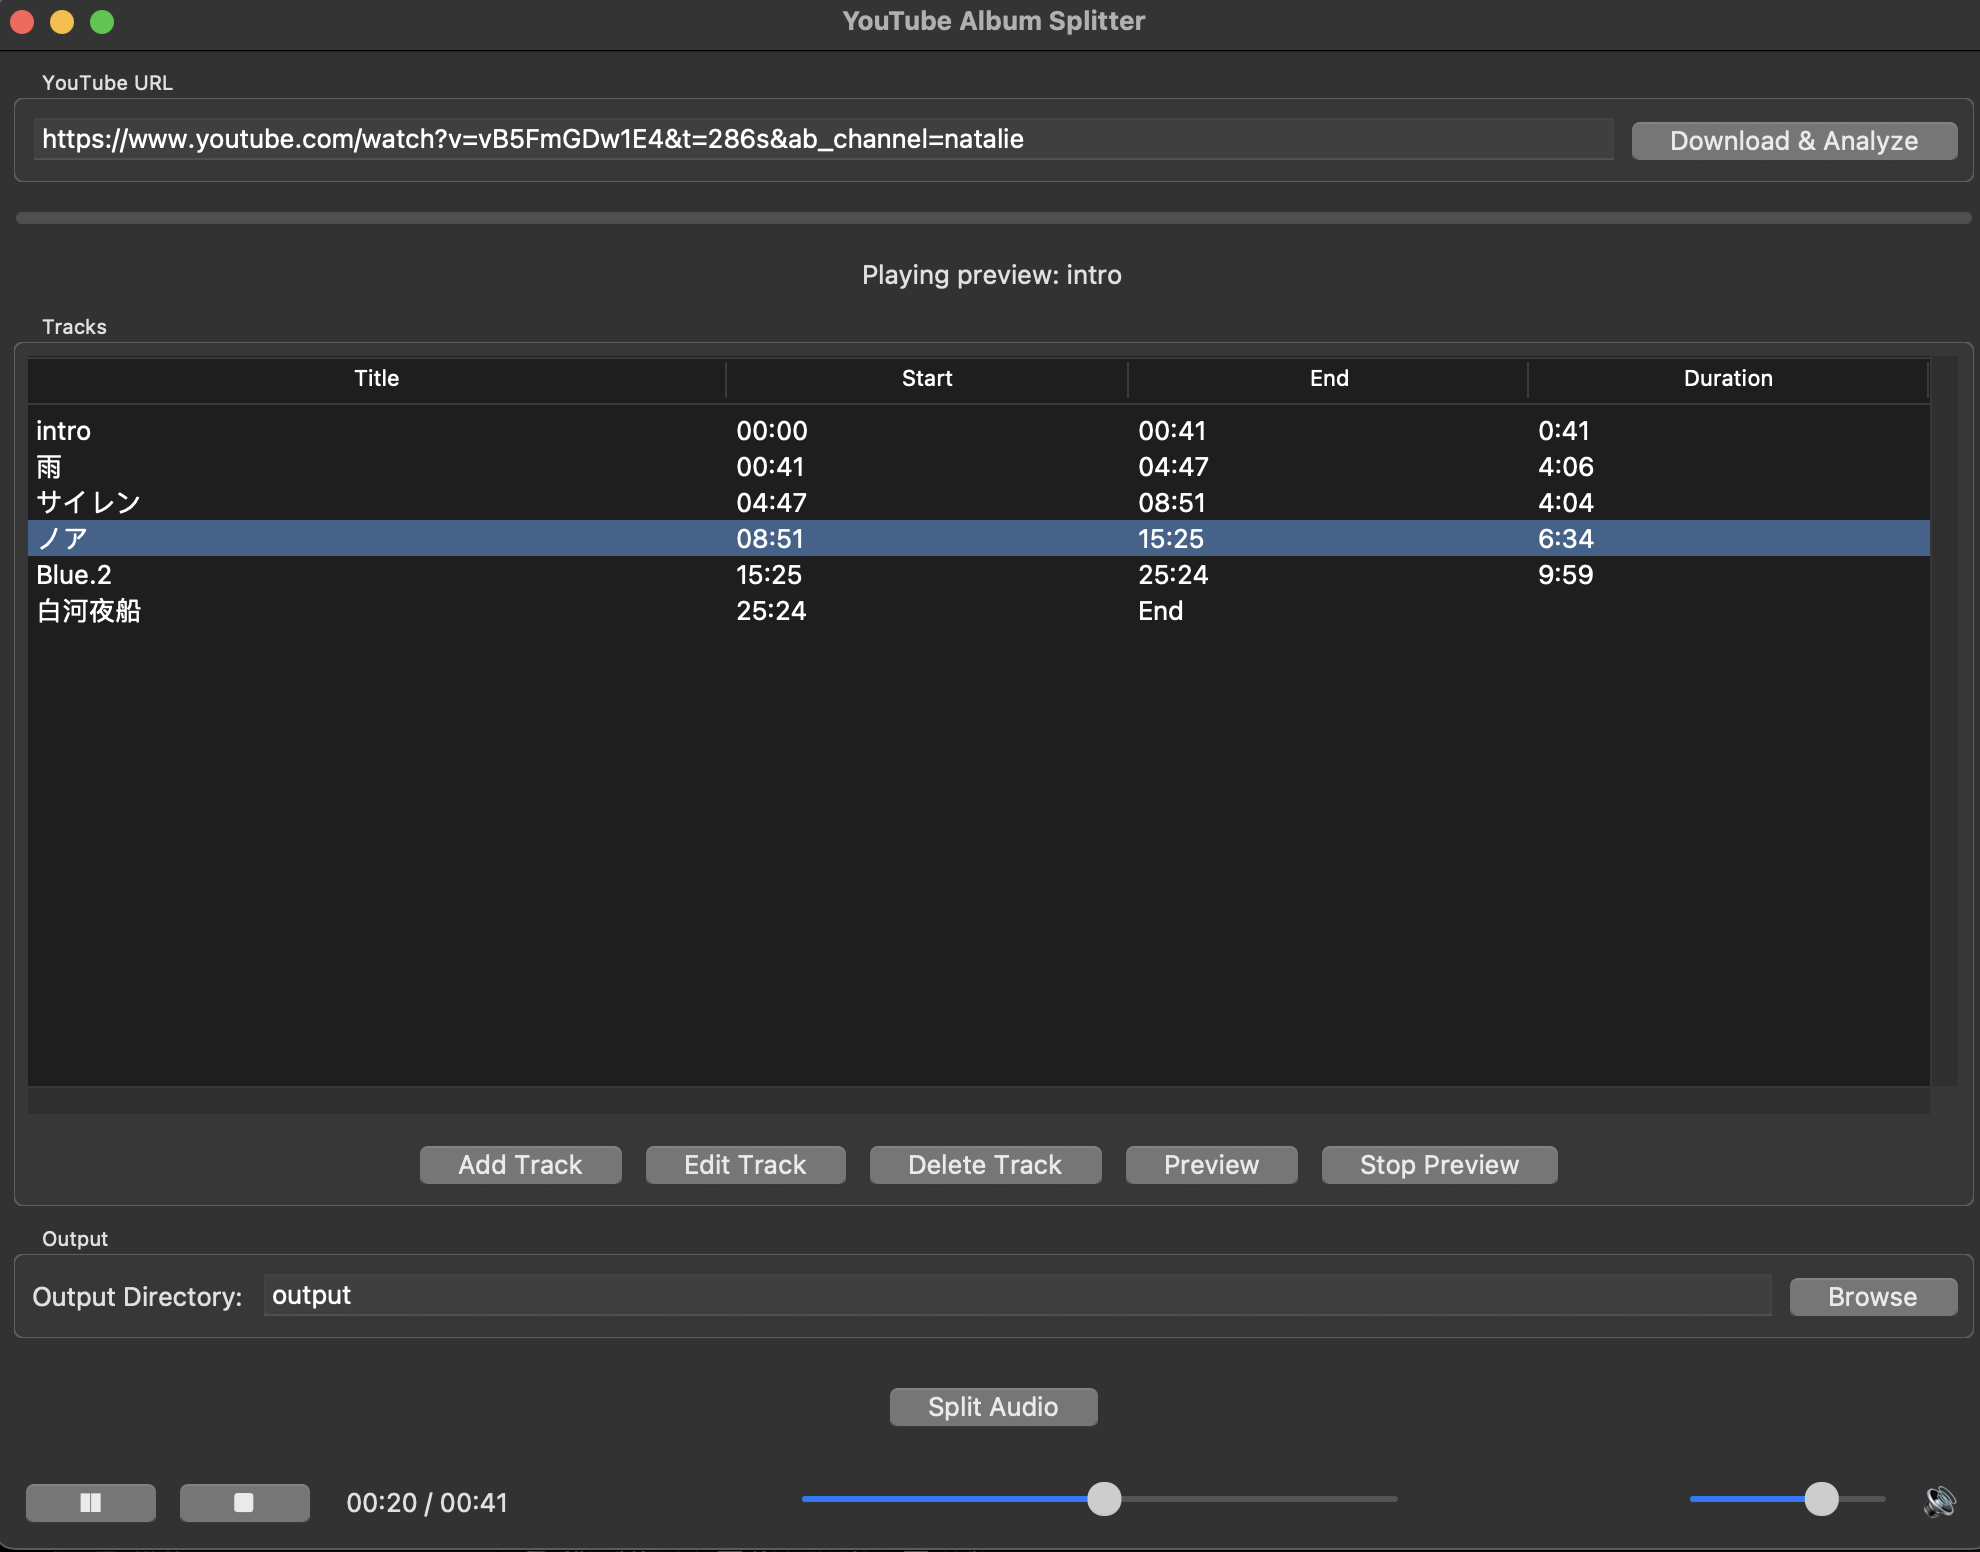
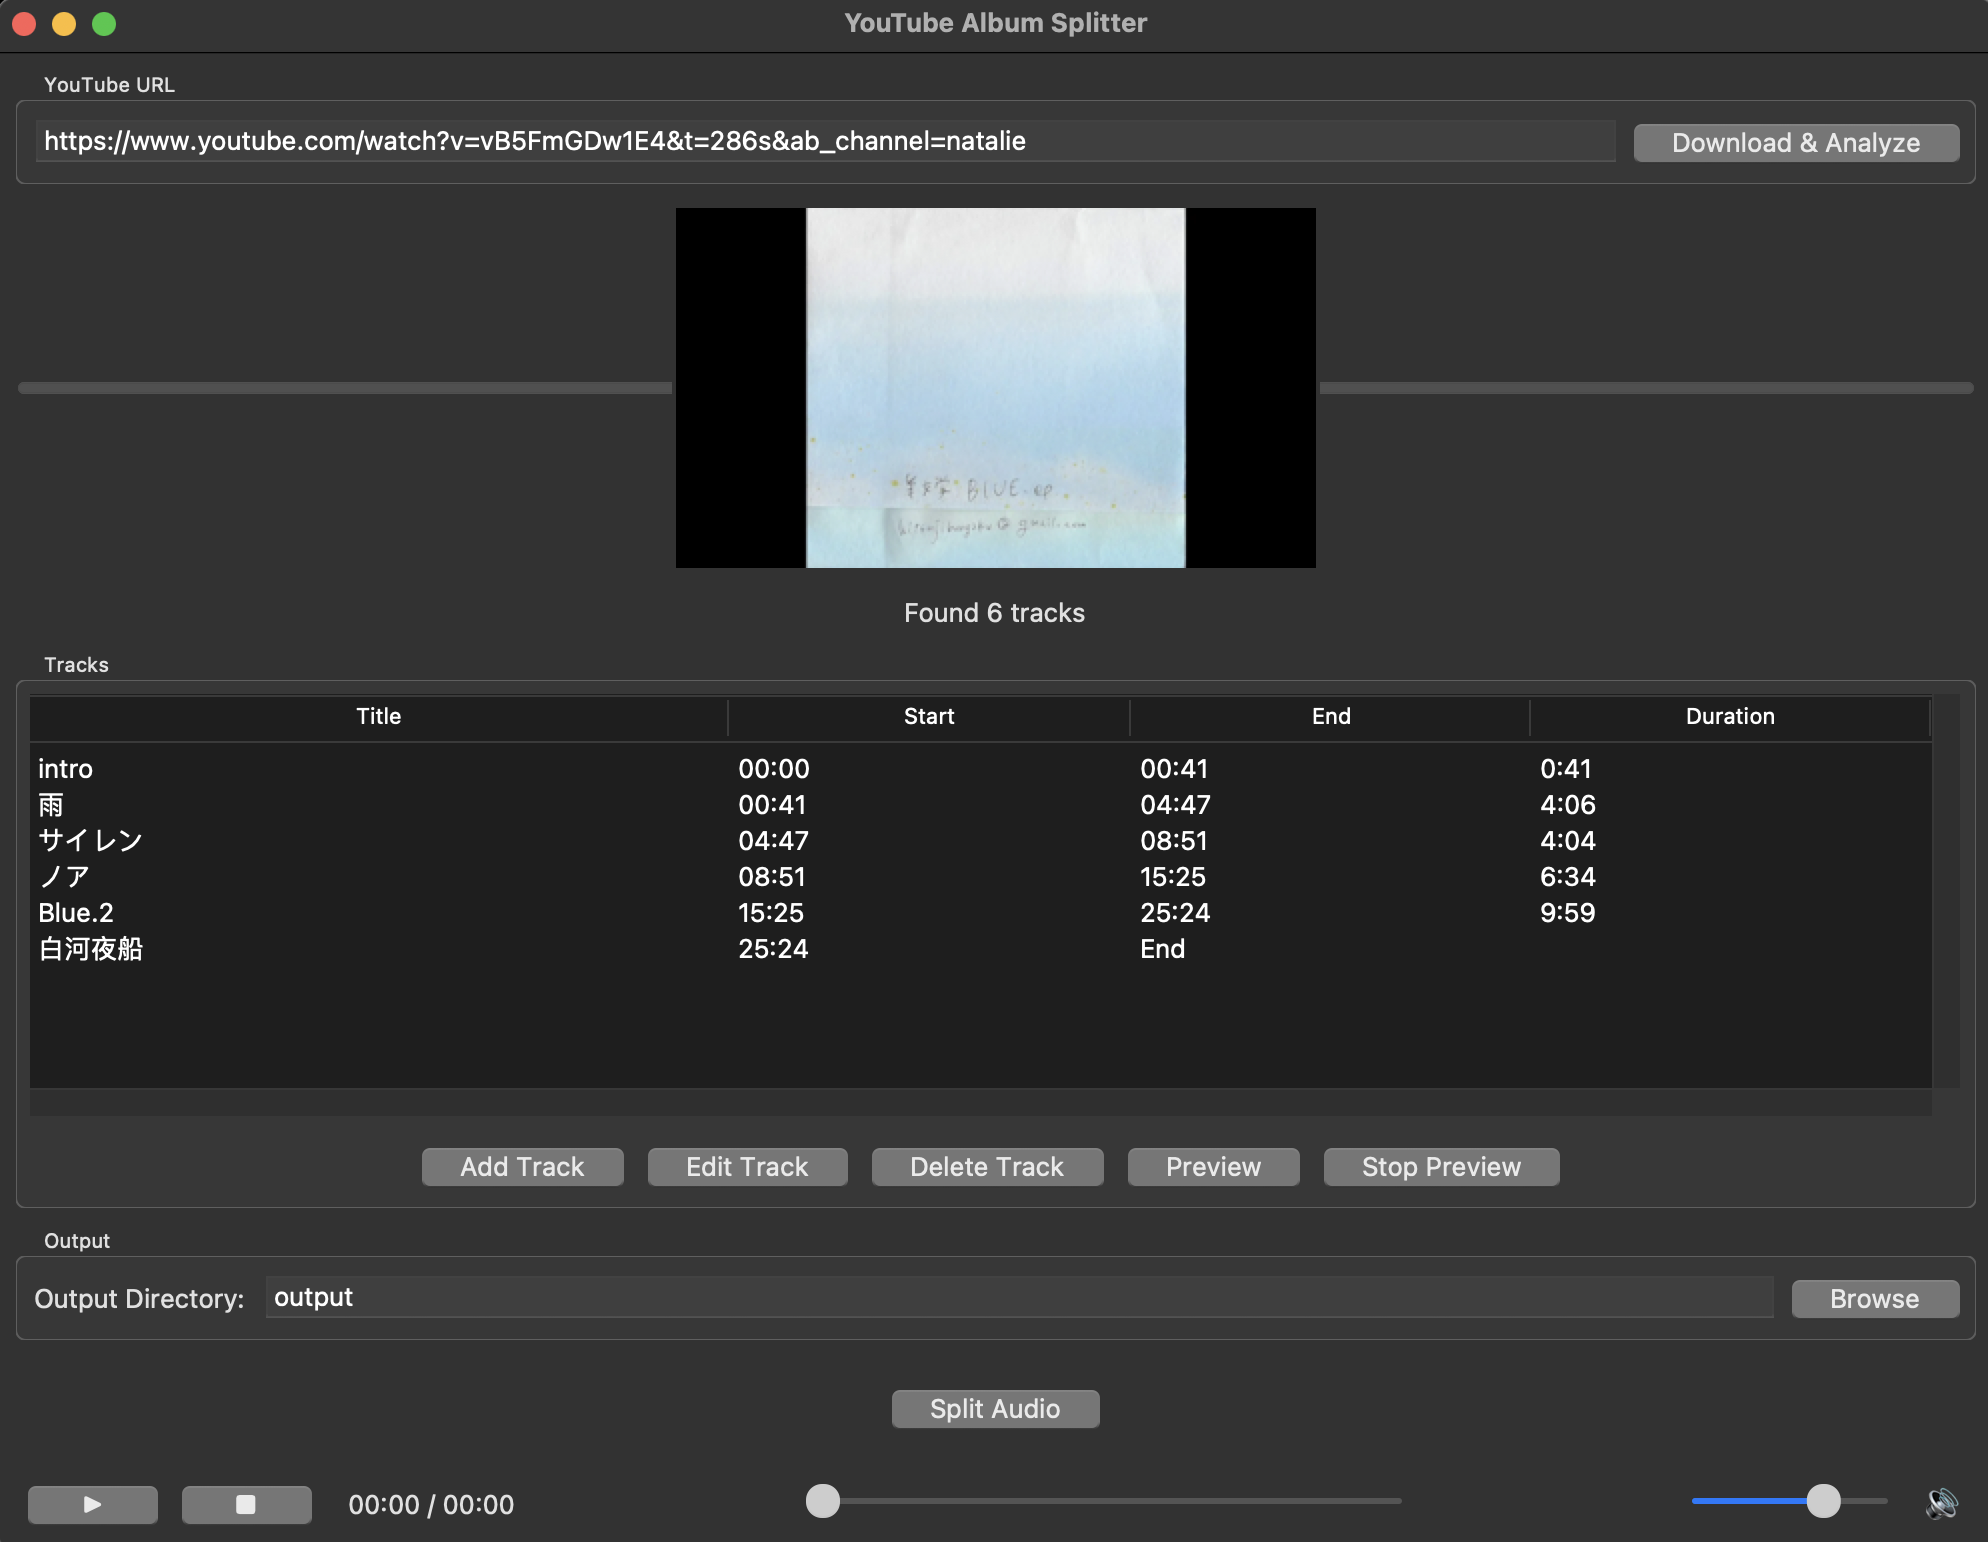
Add requirements.txt and add thumbnail preview

diff --git a/slice.py b/slice.py
@@ -15,7 +15,9 @@ import threading
 import tempfile
 import pygame
 import yt_dlp
-import time
+import requests
+from io import BytesIO
+from PIL import Image, ImageTk
 
 class Track:
     def __init__(self, title: str, start_time: str, end_time: str = None):
@@ -432,6 +434,7 @@ class YouTubeAlbumSplitterGUI:
         # Initialize pygame mixer
         pygame.mixer.init()
         
+        self.thumbnail_label = None
         self.setup_ui()
 
     def setup_ui(self):
@@ -459,6 +462,12 @@ class YouTubeAlbumSplitterGUI:
         self.status_var = tk.StringVar(value="Ready")
         status_label = ttk.Label(main_frame, textvariable=self.status_var)
         status_label.grid(row=2, column=0, columnspan=2, pady=(0, 10))
+
+        # Thumbnail display
+        thumbnail_frame = ttk.Frame(main_frame)
+        thumbnail_frame.grid(row=1, column=0, columnspan=2, pady=(0, 10))
+        self.thumbnail_label = ttk.Label(thumbnail_frame)
+        self.thumbnail_label.pack()
         
         # Tracks frame
         tracks_frame = ttk.LabelFrame(main_frame, text="Tracks", padding="5")
@@ -547,7 +556,8 @@ class YouTubeAlbumSplitterGUI:
                 self.root.after(0, lambda: self.download_btn.config(state='normal'))
                 self.root.after(0, lambda: self.process_btn.config(state='normal'))
                 update_status(f"Found {len(auto_tracks)} tracks")
-                
+                self.root.after(0, self.fetch_thumbnail)
+
             except Exception as e:
                 self.root.after(0, lambda: self.progress.stop())
                 self.root.after(0, lambda: self.download_btn.config(state='normal'))
@@ -673,6 +683,37 @@ class YouTubeAlbumSplitterGUI:
         
         threading.Thread(target=preview_thread, daemon=True).start()
     
+    def fetch_thumbnail(self):
+        if not self.splitter.video_info:
+            return
+
+        try:
+            # Get the highest resolution thumbnail
+            thumbnail_url = self.splitter.video_info.get('thumbnail')
+            if not thumbnail_url:
+                return
+
+            # Download and resize thumbnail
+            response = requests.get(thumbnail_url, stream=True)
+            response.raise_for_status()
+            
+            img_data = response.content
+            img = Image.open(BytesIO(img_data))
+            
+            # Resize to fit GUI (adjust dimensions as needed)
+            img.thumbnail((320, 180))
+            
+            # Convert for Tkinter
+            photo = ImageTk.PhotoImage(img)
+            
+            # Update label
+            self.thumbnail_label.config(image=photo)
+            self.thumbnail_label.image = photo  # Keep reference
+            
+        except Exception as e:
+            print(f"Error loading thumbnail: {e}")
+
+
     def stop_preview(self):
         self.player_controls.stop_playback()
         self.preview.stop_preview()
@@ -784,7 +825,7 @@ def main():
         import pygame
     except ImportError as e:
         print(f"Missing dependency: {e}")
-        print("Install with: pip install yt-dlp pygame")
+        print("Install with: pip install requirements.txt")
         sys.exit(1)
     
     # Check for ffmpeg

diff --git a/README.md b/README.md
@@ -4,8 +4,7 @@ I got tired of manually splitting MP3s from albums I could only find on youtube.
 
 **Installation:**
 
-1. `pip install yt-dlp pygame`
-
+1. `pip install requirements.txt`
 
 2. You will need ffmpeg to make this work:
 
